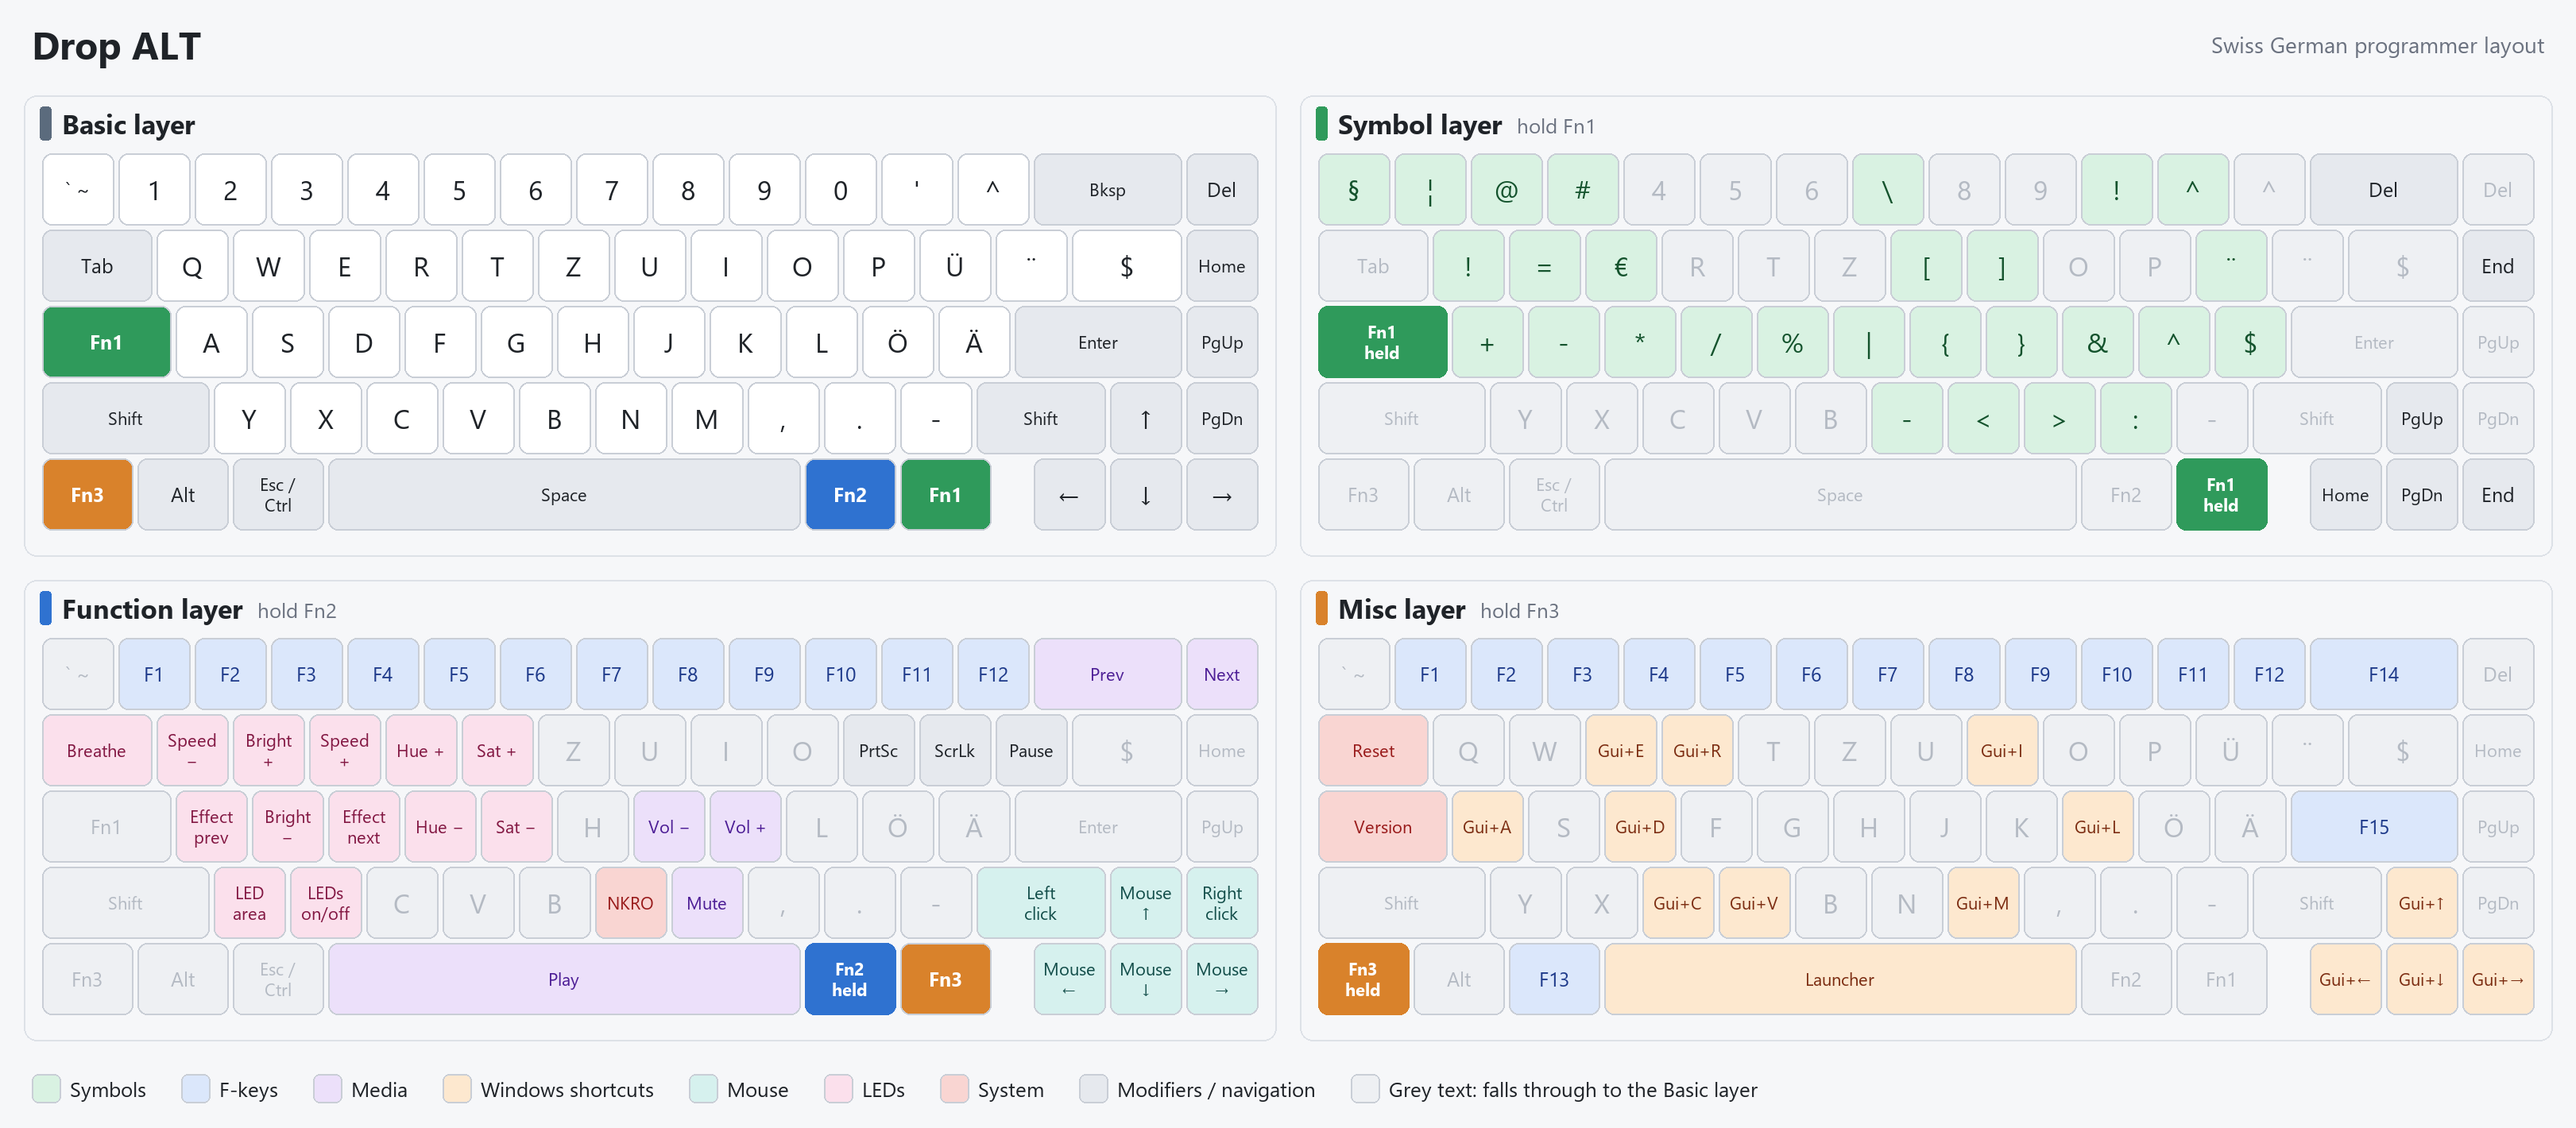
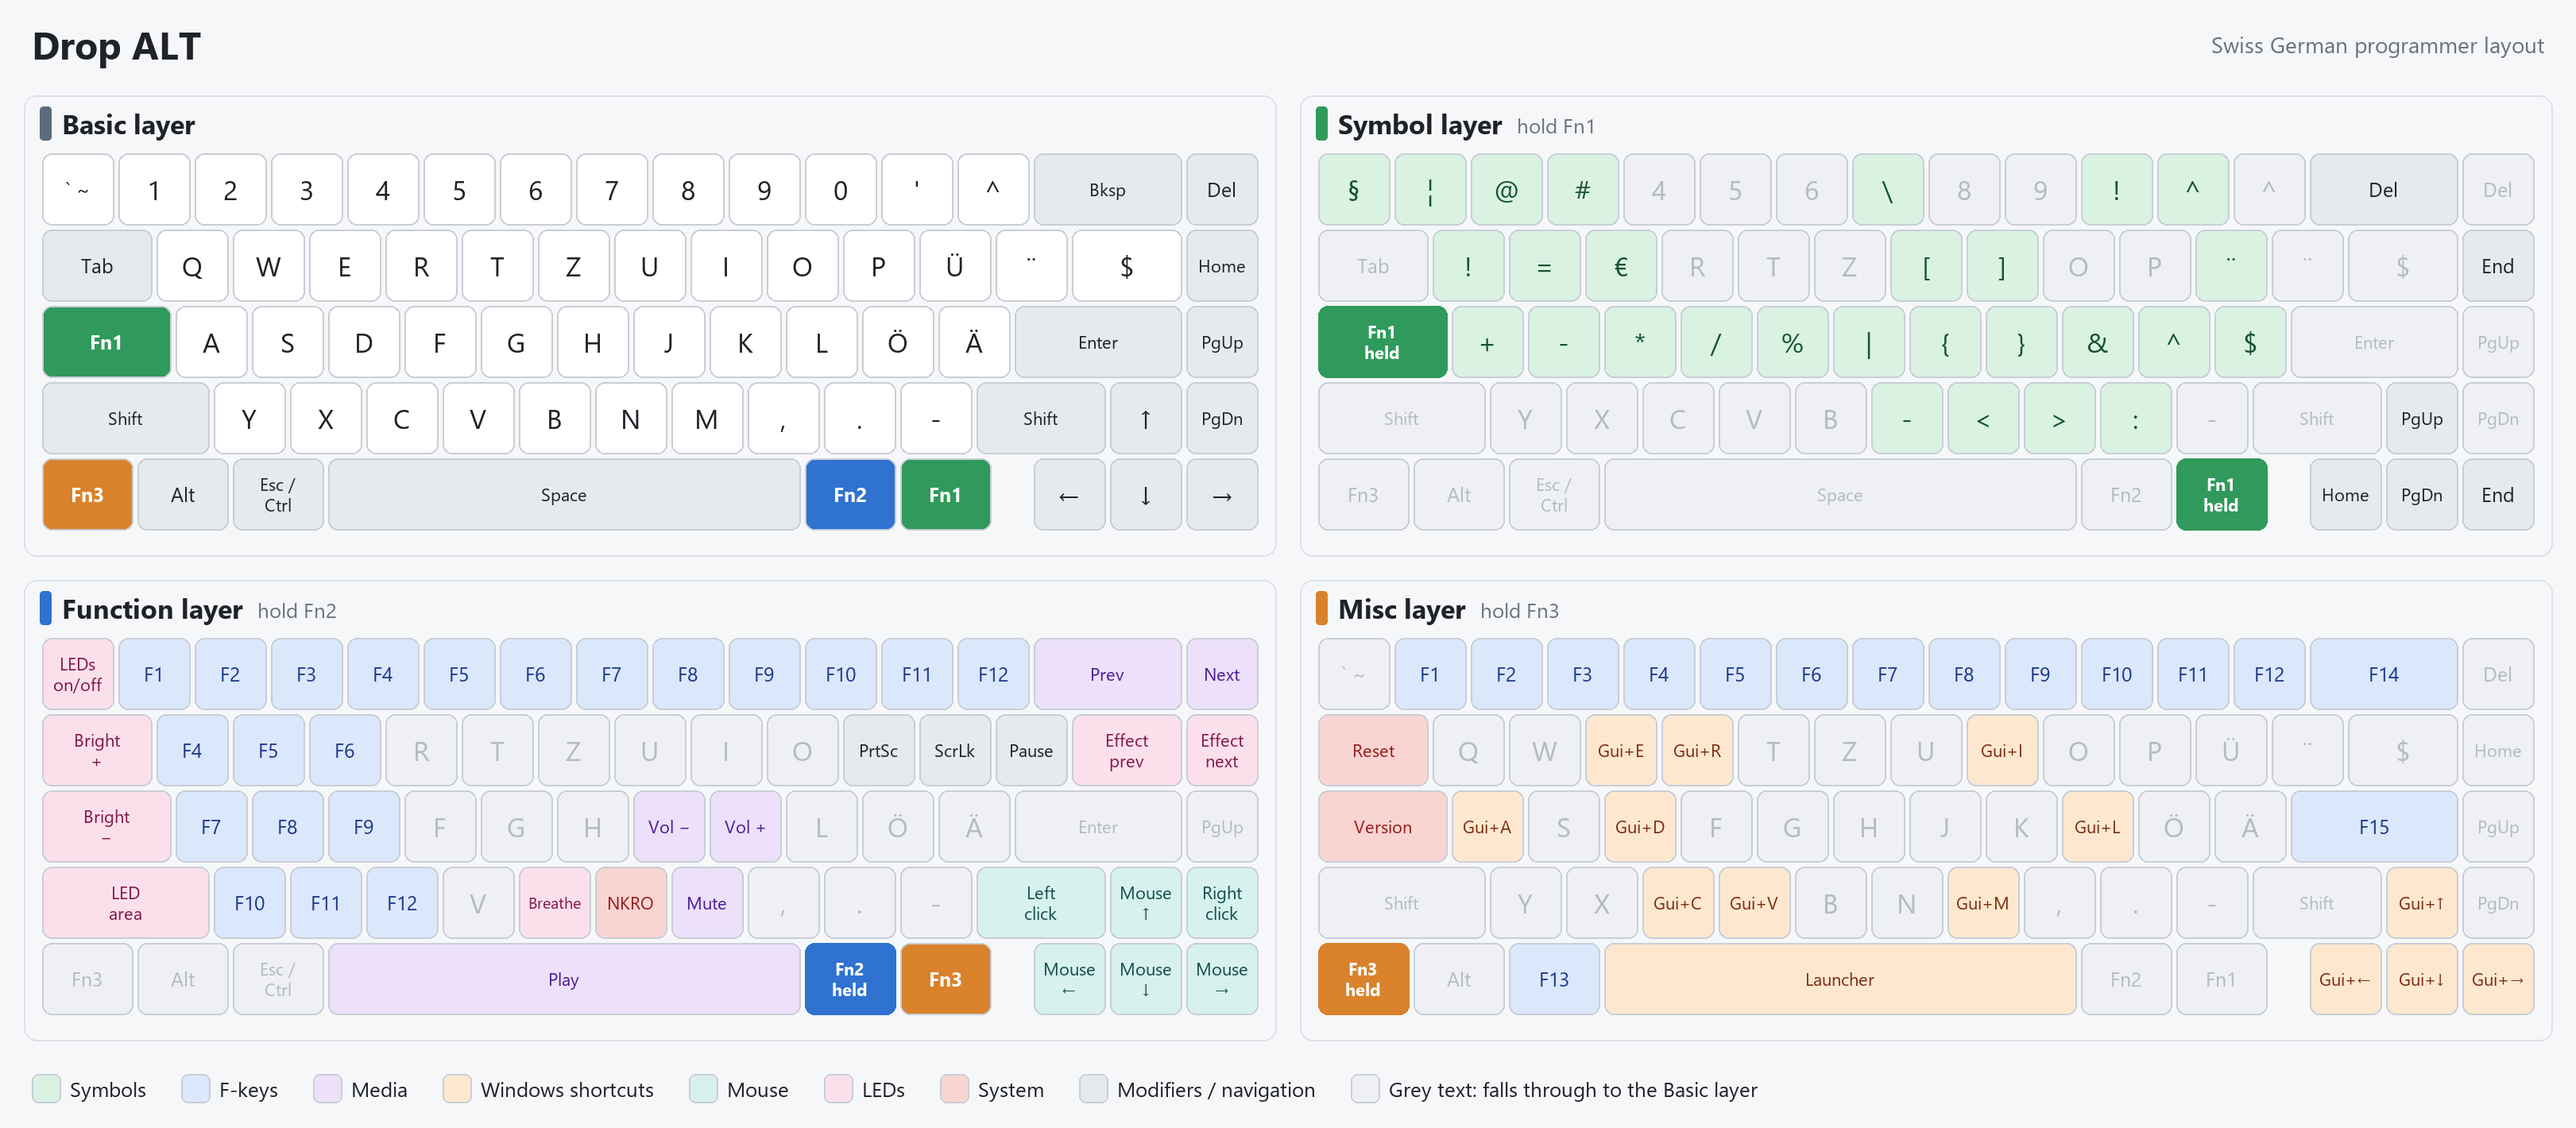
Harmonize the Function layer and lighting keys
- ALT: the Function layer gets the F4-F12 block like the other boards.
  Its lighting keys move to the left column (on/off, brightness, area),
  B (breathe) and $/Home (effect prev/next). Speed, hue and saturation
  keys are dropped.
- ErgoDox/Infinity: backlight on/off and brightness move to the Function
  layer's left column, with breathe on B and effect prev/next on the
  left thumb cluster. A second Reset goes on the right Tab-row key of
  the Misc layer, so each Infinity half has its own.
- Preonic and ErgoDox: F4-F10 added to the Function layer number row.
- New shared BREATHE keycode for RGB and LED matrix boards.

Changed region(s): [[0.0312, 0.6197, 0.1558, 0.8366], [0.4362, 0.6507, 0.4985, 0.6817]]

diff --git a/layouts/ergodox/swissgerman_programmer/keymap.c b/layouts/ergodox/swissgerman_programmer/keymap.c
@@ -84,18 +84,18 @@ const uint16_t PROGMEM keymaps[][MATRIX_ROWS][MATRIX_COLS] = {
 ),
 /* Function layer
  * ,--------------------------------------------------.           ,--------------------------------------------------.
- * |        |  F1  |  F2  |  F3  |      |      |      |           |      |      |      |      |      |      |        |
+ * | BL Tog |  F1  |  F2  |  F3  |  F4  |  F5  |      |           |      |  F6  |  F7  |  F8  |  F9  |  F10 |        |
  * |--------+------+------+------+------+-------------|           |------+------+------+------+------+------+--------|
- * |        |  F4  |  F5  |  F6  |      |      |      |           |      |      |      |      |      | PrtSc|        |
+ * |  BL ↑  |  F4  |  F5  |  F6  |      |      |      |           |      |      |      |      |      | PrtSc|        |
  * |--------+------+------+------+------+------|      |           |      |------+------+------+------+------+--------|
- * |        |  F7  |  F8  |  F9  |      |      |------|           |------|      | Vol- | Vol+ |      |      |        |
+ * |  BL ↓  |  F7  |  F8  |  F9  |      |      |------|           |------|      | Vol- | Vol+ |      |      |        |
  * |--------+------+------+------+------+------|      |           |      |------+------+------+------+------+--------|
- * |        |  F10 |  F11 |  F12 |      |      |      |           |      |      | Mute |      |  MB1 |  MUp |  MB2   |
+ * |        |  F10 |  F11 |  F12 |      | Brth |      |           |      |      | Mute |      |  MB1 |  MUp |  MB2   |
  * `--------+------+------+------+------+-------------'           `-------------+------+------+------+------+--------'
  *   |      |      |      |      |      |                                       |      |      | MLeft| MDown| MRght|
  *   `----------------------------------'                                       `----------------------------------'
  *                                        ,-------------.       ,-------------.
- *                                        |      |      |       | Prev | Next |
+ *                                        | Mode-| Mode+|       | Prev | Next |
  *                                 ,------|------|------|       |------+------+------.
  *                                 |      |      |      |       | Vol+ |      |      |
  *                                 | Prev | Next |------|       |------| Mute | Play |
@@ -104,16 +104,16 @@ const uint16_t PROGMEM keymaps[][MATRIX_ROWS][MATRIX_COLS] = {
  */
 [2] = LAYOUT_ergodox(
         // left hand
-        _______ , KC_F1   , KC_F2   , KC_F3   , _______ , _______ , _______ ,
-        _______ , KC_F4   , KC_F5   , KC_F6   , _______ , _______ , _______ ,
-        _______ , KC_F7   , KC_F8   , KC_F9   , _______ , _______ ,
-        _______ , KC_F10  , KC_F11  , KC_F12  , _______ , _______ , _______ ,
+        LM_TOGG , KC_F1   , KC_F2   , KC_F3   , KC_F4   , KC_F5   , _______ ,
+        LM_BRIU , KC_F4   , KC_F5   , KC_F6   , _______ , _______ , _______ ,
+        LM_BRID , KC_F7   , KC_F8   , KC_F9   , _______ , _______ ,
+        _______ , KC_F10  , KC_F11  , KC_F12  , _______ , BREATHE , _______ ,
         _______ , _______ , _______ , _______ , _______ ,
-                                                          _______ , _______ ,
+                                                          LM_PREV , LM_NEXT ,
                                                                     _______ ,
                                                 KC_MPRV , KC_MNXT , _______ ,
         // right hand
-        _______ , _______ , _______ , _______ , _______ , _______ , _______ ,
+        _______ , KC_F6   , KC_F7   , KC_F8   , KC_F9   , KC_F10  , _______ ,
         _______ , _______ , _______ , _______ , _______ , KC_PSCR , _______ ,
                   _______ , KC_VOLD , KC_VOLU , _______ , _______ , _______ ,
         _______ , _______ , KC_MUTE , _______ , MS_BTN1 , MS_UP   , MS_BTN2 ,
@@ -124,11 +124,11 @@ const uint16_t PROGMEM keymaps[][MATRIX_ROWS][MATRIX_COLS] = {
     ),
 /* Misc layer
  * ,--------------------------------------------------.           ,--------------------------------------------------.
- * |        |  F1  |  F2  |  F3  |  F4  |  F5  |  F6  |           |  F7  |  F8  |  F9  |  F10 |  F11 |  F12 | BL Tog |
+ * |        |  F1  |  F2  |  F3  |  F4  |  F5  |  F6  |           |  F7  |  F8  |  F9  |  F10 |  F11 |  F12 |        |
  * |--------+------+------+------+------+-------------|           |------+------+------+------+------+------+--------|
- * | Reset  |      |      | Gui+E| Gui+R|      |      |           |      |      |      | Gui+I|      |      |  BL ↑  |
+ * | Reset  |      |      | Gui+E| Gui+R|      |      |           |      |      |      | Gui+I|      |      | Reset  |
  * |--------+------+------+------+------+------|      |           |      |------+------+------+------+------+--------|
- * |  Vrsn  | Gui+A|      | Gui+D|      |      |------|           |------|      |      |      | Gui+L|      |  BL ↓  |
+ * |  Vrsn  | Gui+A|      | Gui+D|      |      |------|           |------|      |      |      | Gui+L|      |        |
  * |--------+------+------+------+------+------|      |           |      |------+------+------+------+------+--------|
  * |        |      |      | Gui+C| Gui+V|      |      |           |      |      | Gui+M|      |      | Gui+↑|        |
  * `--------+------+------+------+------+-------------'           `-------------+------+------+------+------+--------'
@@ -153,9 +153,9 @@ const uint16_t PROGMEM keymaps[][MATRIX_ROWS][MATRIX_COLS] = {
                                                                     _______ ,
                                                 KC_F14  , _______ , _______ ,
         // right hand
-        KC_F7   , KC_F8   , KC_F9   , KC_F10  , KC_F11     , KC_F12     , LM_TOGG ,
-        _______ , _______ , _______ , G(CH_I) , _______    , _______    , LM_BRIU ,
-                  _______ , _______ , _______ , G(CH_L)    , _______    , LM_BRID ,
+        KC_F7   , KC_F8   , KC_F9   , KC_F10  , KC_F11     , KC_F12     , _______ ,
+        _______ , _______ , _______ , G(CH_I) , _______    , _______    , QK_BOOT ,
+                  _______ , _______ , _______ , G(CH_L)    , _______    , _______ ,
         _______ , _______ , G(CH_M) , _______ , _______    , G(KC_UP)   , _______ ,
                             _______ , _______ , G(KC_LEFT) , G(KC_DOWN) , G(KC_RIGHT) ,
         _______ , _______ ,

diff --git a/keyboards/massdrop/alt/keymaps/swissgerman_programmer/keymap.c b/keyboards/massdrop/alt/keymaps/swissgerman_programmer/keymap.c
@@ -51,25 +51,25 @@ const uint16_t PROGMEM keymaps[][MATRIX_ROWS][MATRIX_COLS] = {
 ),
 
 /* Function layer
- * Based on Drop's default Fn keys. Hold Fn2, then the right Fn1 key, for the misc layer.
+ * Hold Fn2, then the Fn1 key next to it, for the misc layer.
  * ,-----------------------------------------------------------------------------------------------.
- * |     |  F1 |  F2 |  F3 |  F4 |  F5 |  F6 |  F7 |  F8 |  F9 | F10 | F11 | F12 |   Prev    | Next|
+ * |RGBTg|  F1 |  F2 |  F3 |  F4 |  F5 |  F6 |  F7 |  F8 |  F9 | F10 | F11 | F12 |   Prev    | Next|
  * |-----------------------------------------------------------------------------------------------|
- * | Brth   | Spd-| Val+| Spd+| Hue+| Sat+|     |     |     |     |PrtSc|ScrLk|Pause|        |     |
+ * | Val+   |  F4 |  F5 |  F6 |     |     |     |     |     |     |PrtSc|ScrLk|Pause| Mode-  |Mode+|
  * |-----------------------------------------------------------------------------------------------|
- * |          |Mode-| Val-|Mode+| Hue-| Sat-|     | Vol-| Vol+|     |     |     |            |     |
+ * | Val-     |  F7 |  F8 |  F9 |     |     |     | Vol-| Vol+|     |     |     |            |     |
  * |-----------------------------------------------------------------------------------------------|
- * |             | Area|RGBTg|     |     |     | NKRO| Mute|     |     |     |   MB1   | MUp | MB2 |
+ * | Area        | F10 | F11 | F12 |     | Brth| NKRO| Mute|     |     |     |   MB1   | MUp | MB2 |
  * |-----------------------------------------------------------------------------------------------|
  * |      |      |      |                Play                 |      | Fn3  |    |MLeft|MDown|MRght|
  * `-----------------------------------------------------------------------------------------------'
  */
 [2] = LAYOUT_65_ansi_blocker(
-    _______, KC_F1,    KC_F2,   KC_F3,   KC_F4,   KC_F5,   KC_F6,   KC_F7,   KC_F8,   KC_F9,   KC_F10,  KC_F11,  KC_F12,  KC_MPRV, KC_MNXT,
-    RGB_M_B, RGB_SPD,  RGB_VAI, RGB_SPI, RGB_HUI, RGB_SAI, _______, _______, _______, _______, KC_PSCR, KC_SCRL, KC_PAUS, _______, _______,
-    _______, RGB_RMOD, RGB_VAD, RGB_MOD, RGB_HUD, RGB_SAD, _______, KC_VOLD, KC_VOLU, _______, _______, _______,          _______, _______,
-    _______, LED_AREA, RGB_TOG, _______, _______, _______, NK_TOGG, KC_MUTE, _______, _______, _______, MS_BTN1,          MS_UP,   MS_BTN2,
-    _______, _______,  _______,                            KC_MPLY,                            _______, MO(3),   MS_LEFT, MS_DOWN, MS_RGHT
+    RGB_TOG,  KC_F1,   KC_F2,   KC_F3,   KC_F4,   KC_F5,   KC_F6,   KC_F7,   KC_F8,   KC_F9,   KC_F10,  KC_F11,  KC_F12,  KC_MPRV,  KC_MNXT,
+    RGB_VAI,  KC_F4,   KC_F5,   KC_F6,   _______, _______, _______, _______, _______, _______, KC_PSCR, KC_SCRL, KC_PAUS, RGB_RMOD, RGB_MOD,
+    RGB_VAD,  KC_F7,   KC_F8,   KC_F9,   _______, _______, _______, KC_VOLD, KC_VOLU, _______, _______, _______,          _______,  _______,
+    LED_AREA, KC_F10,  KC_F11,  KC_F12,  _______, BREATHE, NK_TOGG, KC_MUTE, _______, _______, _______, MS_BTN1,          MS_UP,    MS_BTN2,
+    _______,  _______, _______,                            KC_MPLY,                            _______, MO(3),   MS_LEFT,  MS_DOWN,  MS_RGHT
 ),
 
 /* Misc layer

diff --git a/layouts/ortho_5x12/swissgerman_programmer/keymap.c b/layouts/ortho_5x12/swissgerman_programmer/keymap.c
@@ -46,7 +46,7 @@ const uint16_t PROGMEM keymaps[][MATRIX_ROWS][MATRIX_COLS] = {
 
 /* Function layer
  * ,-----------------------------------------------------------------------------------.
- * |      |  F1  |  F2  |  F3  |      |      |      |      |      |      |      |      |
+ * |      |  F1  |  F2  |  F3  |  F4  |  F5  |  F6  |  F7  |  F8  |  F9  |  F10 |      |
  * |------+------+------+------+------+------+------+------+------+------+------+------|
  * |      |  F4  |  F5  |  F6  |      |      |      |      |      |      | PrtSc|      |
  * |------+------+------+------+------+-------------+------+------+------+------+------|
@@ -58,7 +58,7 @@ const uint16_t PROGMEM keymaps[][MATRIX_ROWS][MATRIX_COLS] = {
  * `-----------------------------------------------------------------------------------'
  */
 [2] = LAYOUT_ortho_5x12(
-  _______, KC_F1,   KC_F2,   KC_F3,   _______, _______, _______, _______, _______, _______, _______, _______,
+  _______, KC_F1,   KC_F2,   KC_F3,   KC_F4,   KC_F5,   KC_F6,   KC_F7,   KC_F8,   KC_F9,   KC_F10,  _______,
   _______, KC_F4,   KC_F5,   KC_F6,   _______, _______, _______, _______, _______, _______, KC_PSCR, _______,
   _______, KC_F7,   KC_F8,   KC_F9,   _______, _______, _______, KC_VOLD, KC_VOLU, _______, _______, _______,
   _______, KC_F10,  KC_F11,  KC_F12,  _______, _______, _______, KC_MUTE, _______, MS_BTN1, MS_UP,   MS_BTN2,

diff --git a/tools/cheatsheets.py b/tools/cheatsheets.py
@@ -88,6 +88,7 @@ NAMED = {
     "RGB_SAD": ("Sat −", "rgb"), "RGB_M_B": ("Breathe", "rgb"), "LED_AREA": ("LED\narea", "rgb"),
     "LM_TOGG": ("Backlight\non/off", "rgb"), "LM_BRIU": ("Backlight\n+", "rgb"),
     "LM_BRID": ("Backlight\n−", "rgb"),
+    "BREATHE": ("Breathe", "rgb"), "LM_PREV": ("Effect\nprev", "rgb"), "LM_NEXT": ("Effect\nnext", "rgb"),
     "QK_BOOT": ("Reset", "system"), "VRSN": ("Version", "system"), "NK_TOGG": ("NKRO", "system"),
     "LAUNCHER": ("Launcher", "window"),
     "C(S(CH_M))": ("Teams\nmute", "media"), "C(S(CH_O))": ("Teams\ncamera", "media"),

diff --git a/users/swissgerman_programmer/swissgerman_programmer.c b/users/swissgerman_programmer/swissgerman_programmer.c
@@ -37,6 +37,14 @@ bool process_record_user(uint16_t keycode, keyrecord_t *record)
                 SEND_STRING("`");
             }
             return false;
+
+        case BREATHE:
+#if defined(RGB_MATRIX_ENABLE) && defined(ENABLE_RGB_MATRIX_BREATHING)
+            rgb_matrix_mode(RGB_MATRIX_BREATHING);
+#elif defined(LED_MATRIX_ENABLE) && defined(ENABLE_LED_MATRIX_BREATHING)
+            led_matrix_mode(LED_MATRIX_BREATHING);
+#endif
+            return false;
     }
 
     return true;

diff --git a/users/swissgerman_programmer/swissgerman_programmer.h b/users/swissgerman_programmer/swissgerman_programmer.h
@@ -7,6 +7,7 @@ enum custom_keycodes {
     VRSN = SAFE_RANGE, // print version
     CIRC,              // ^
     GRV_TLD,           // ` or ~
+    BREATHE,           // switch the RGB / LED matrix to the breathing effect
     USER_SAFE_RANGE    // first free keycode for keymap-specific keycodes
 };
 
